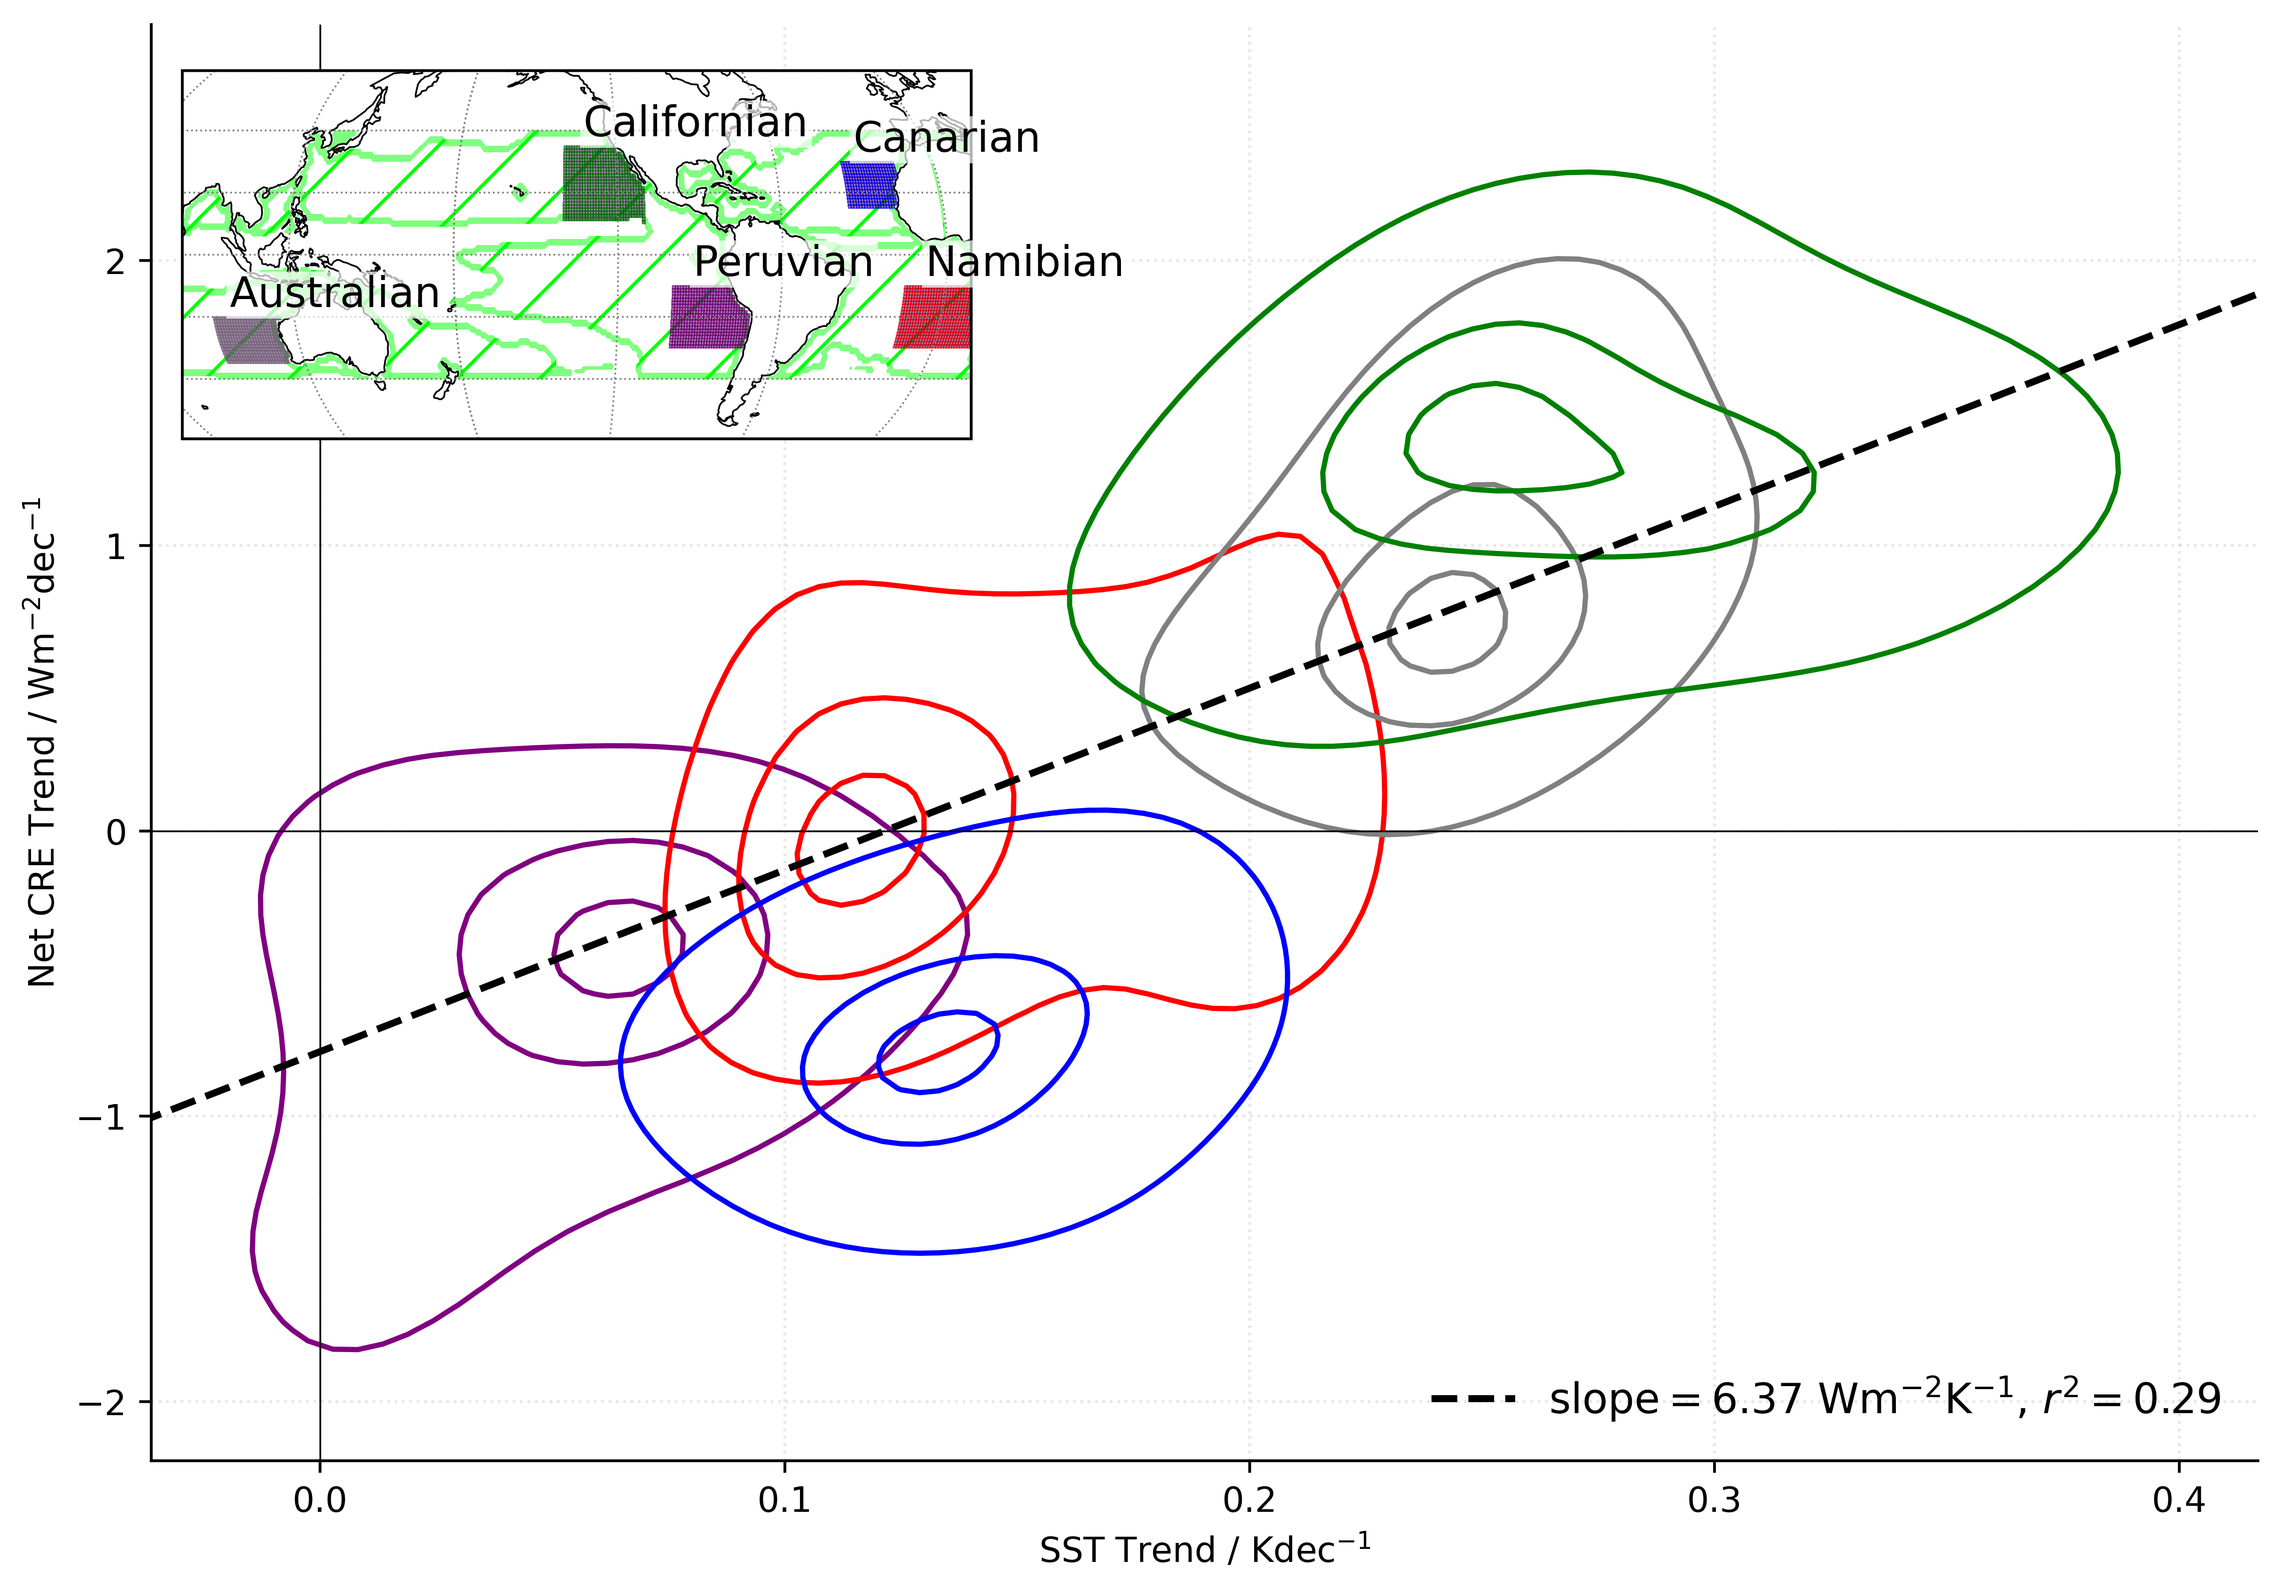
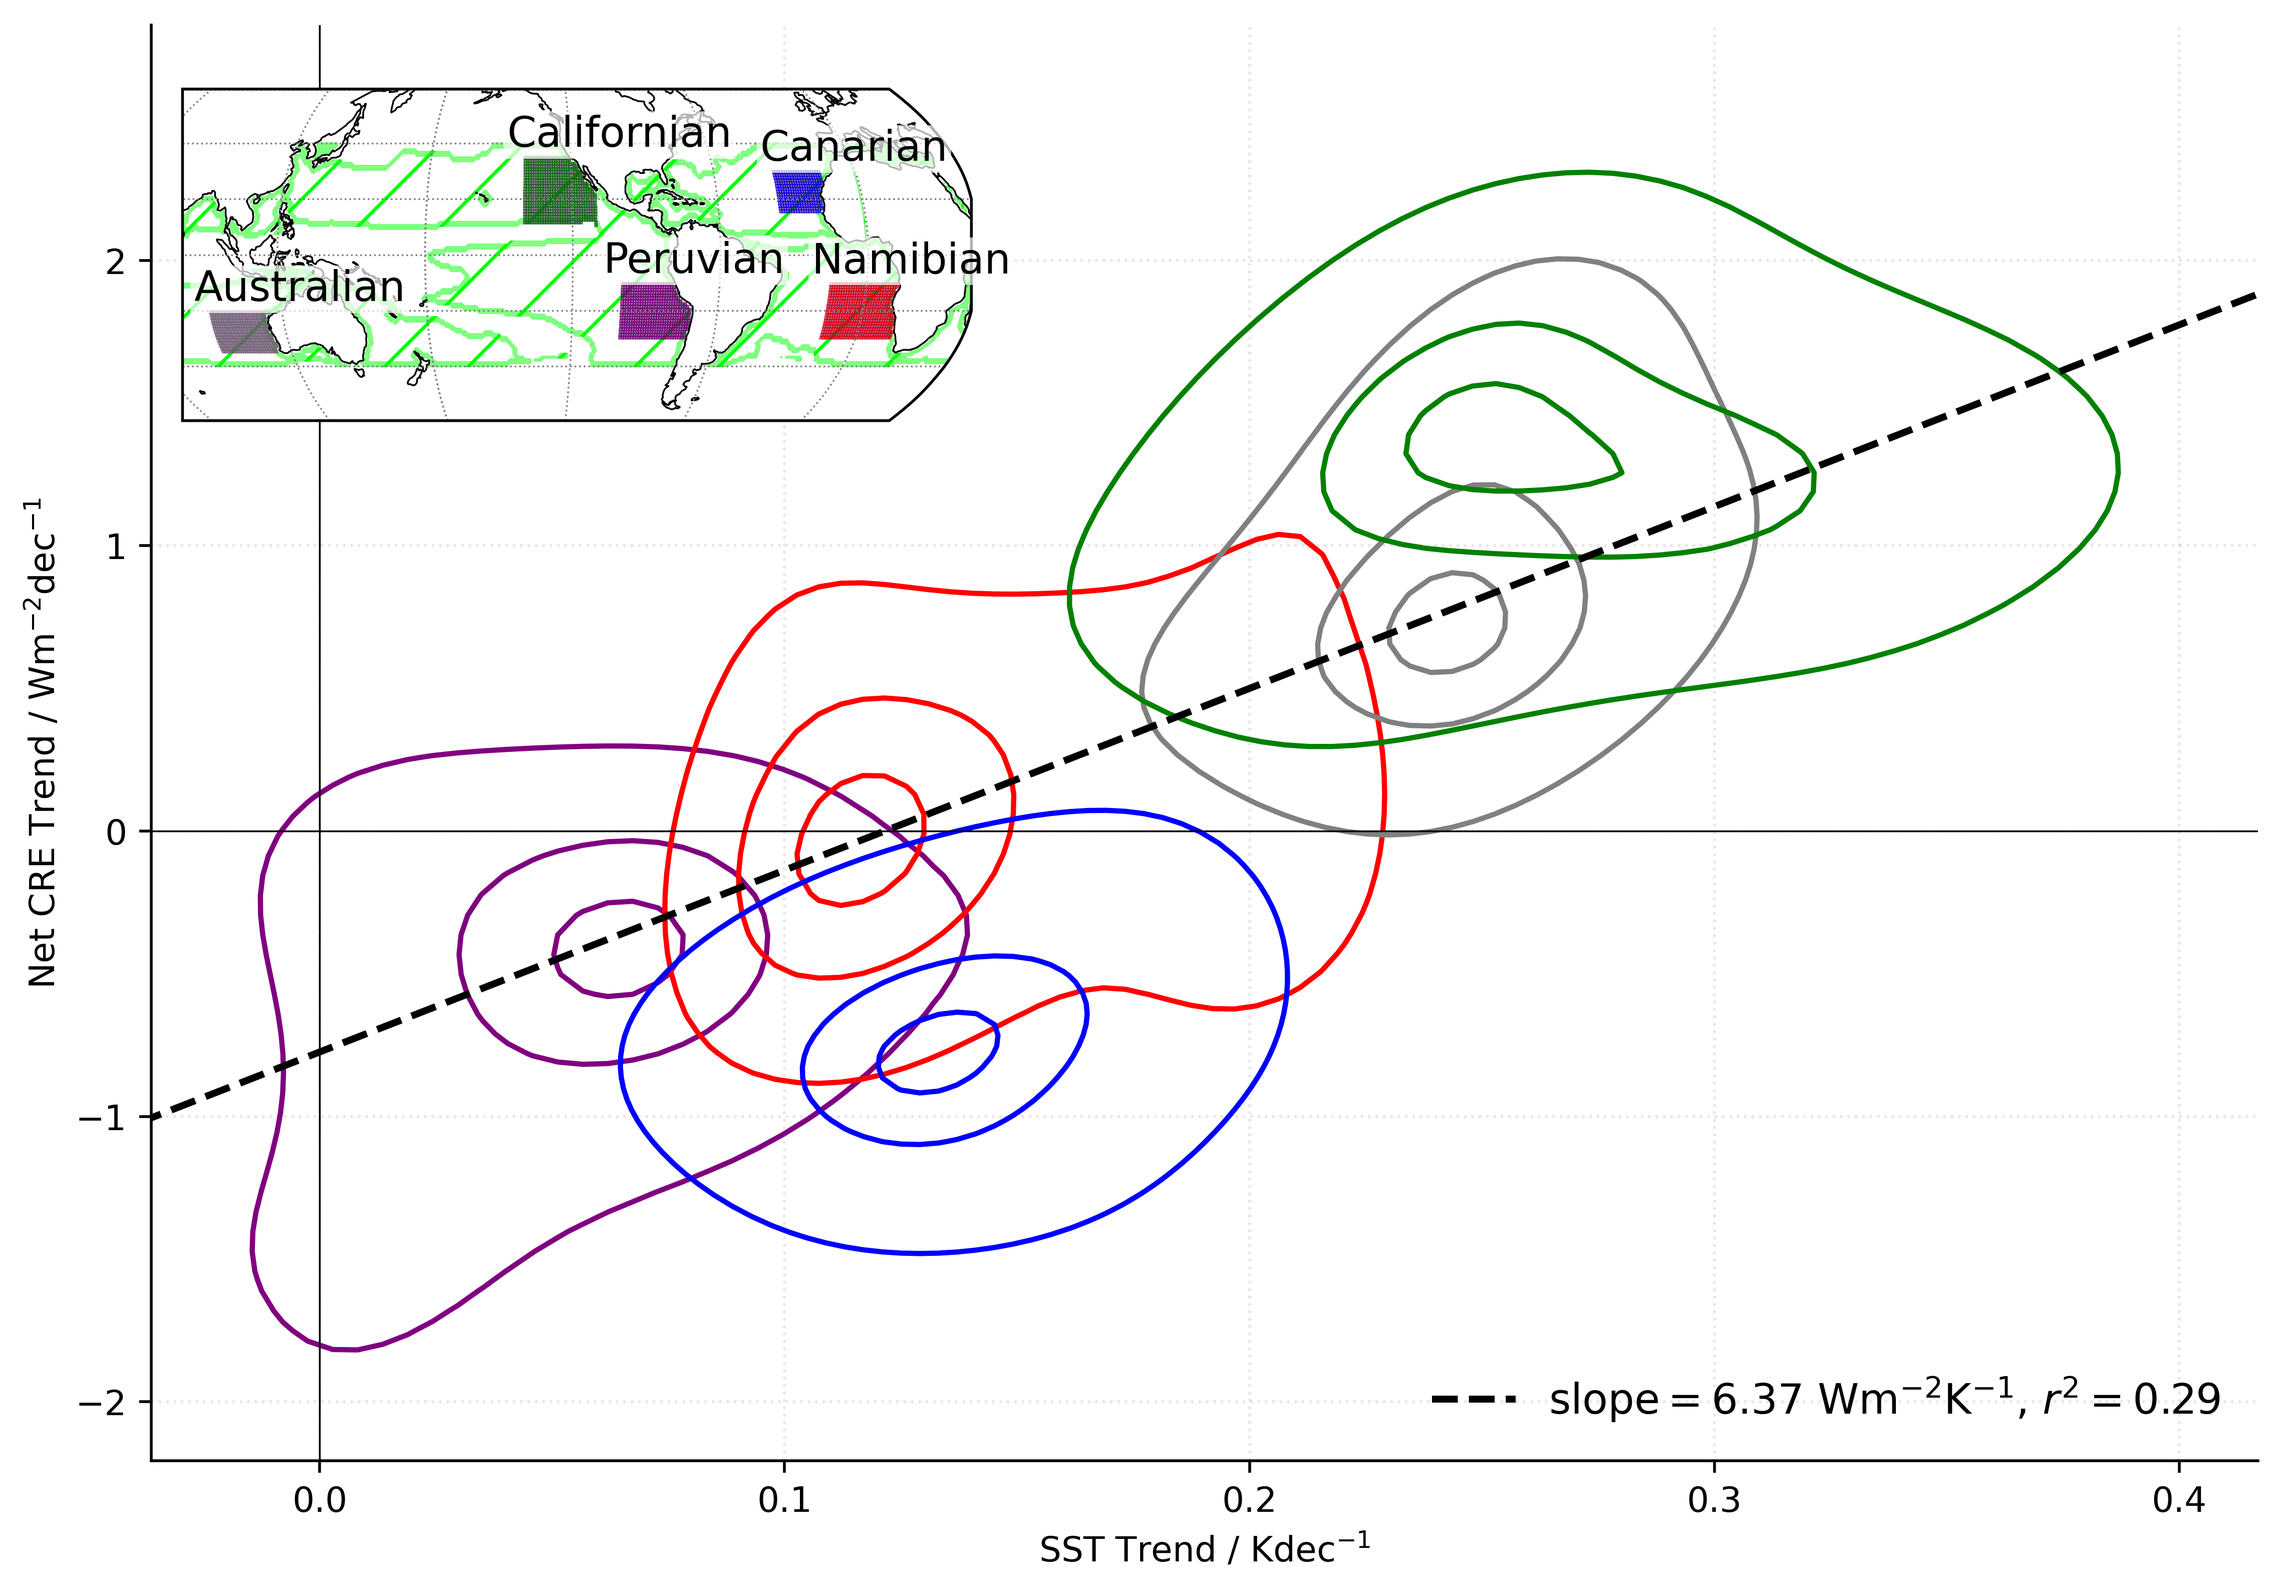
fix ylim err

Changed region(s): [[0.0623, 0.0311, 0.4985, 0.28]]

diff --git a/make_figs/stcu.py b/make_figs/stcu.py
@@ -66,7 +66,7 @@ map_ax = fig.add_axes(
     [0.0745, 0.745, 0.35, 0.35],  # [left, bottom, width, height]
     projection=ccrs.Robinson(central_longitude=central_lon)
 )
-map_ax.set_ylim(-60, 60)
+map_ax.set_extent([central_lon - 180, central_lon + 180, -60, 60], crs=ccrs.PlateCarree())
 
 # - main plot: - 
 
